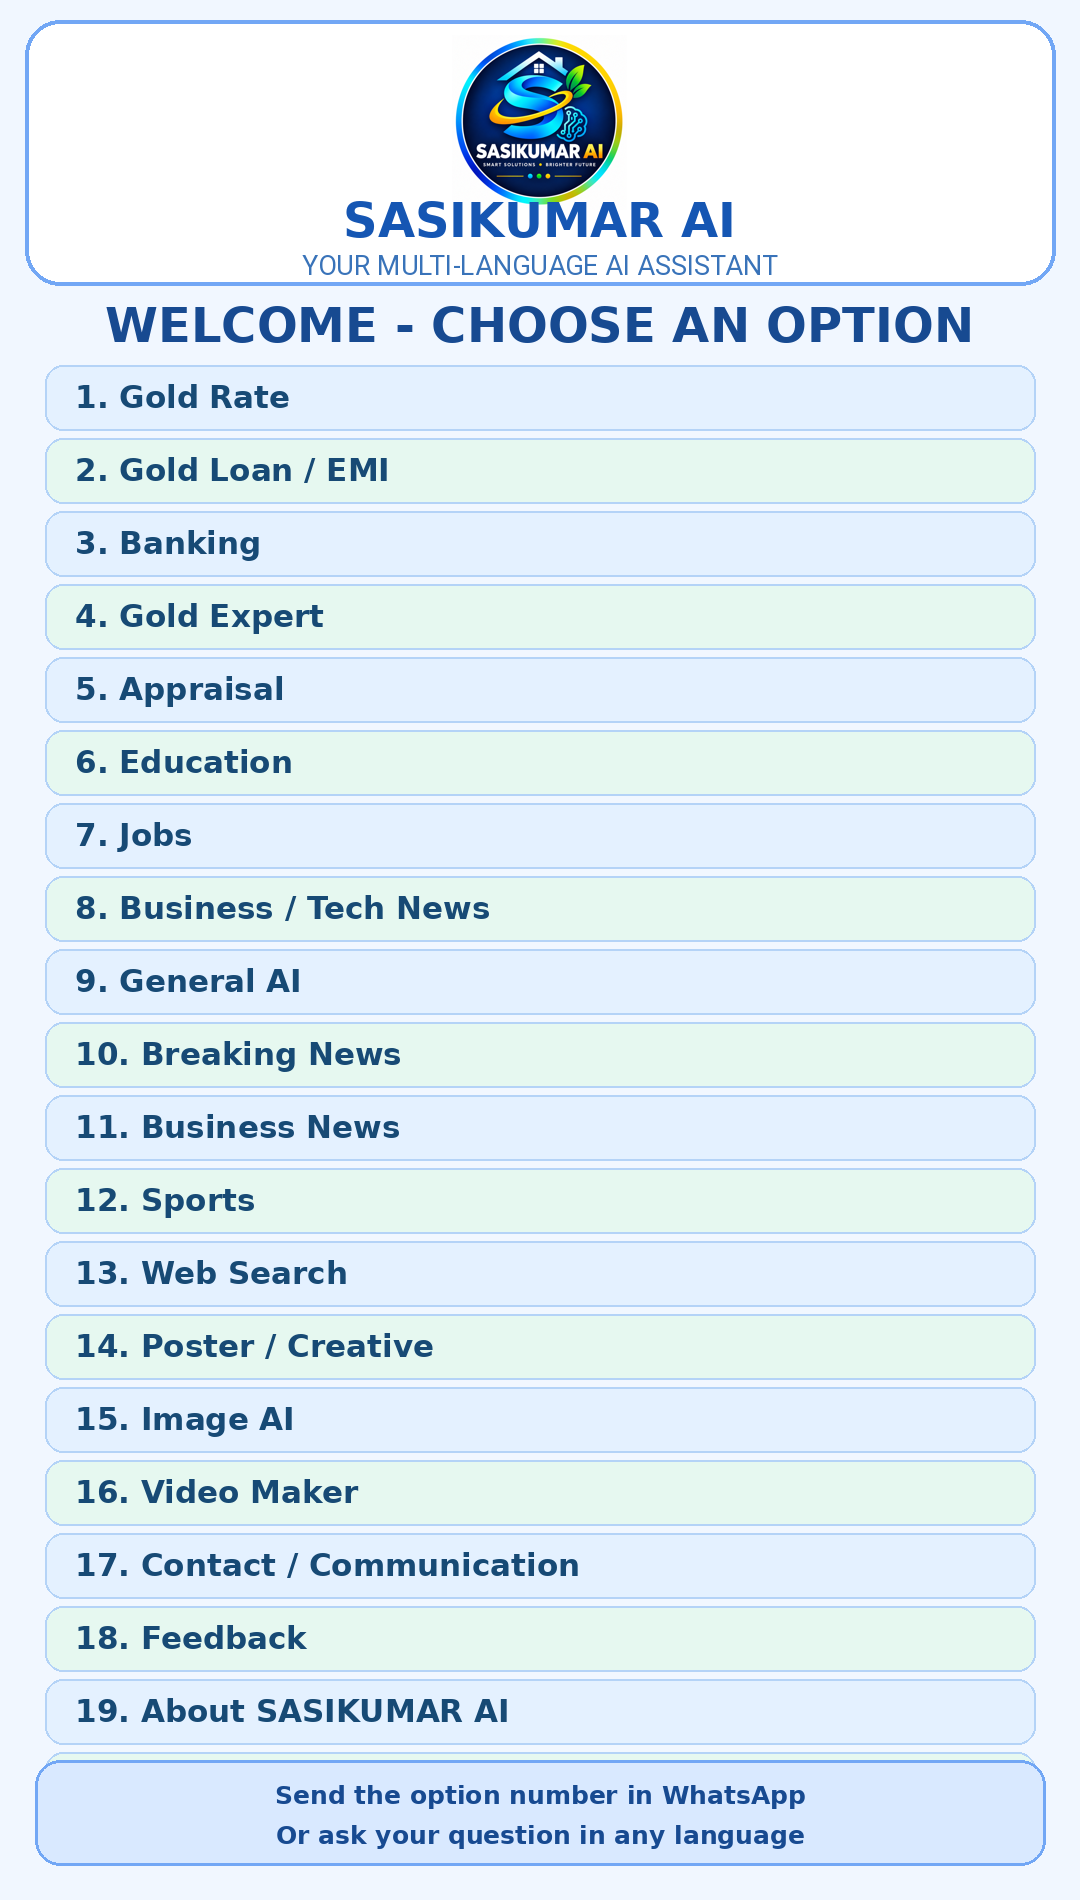
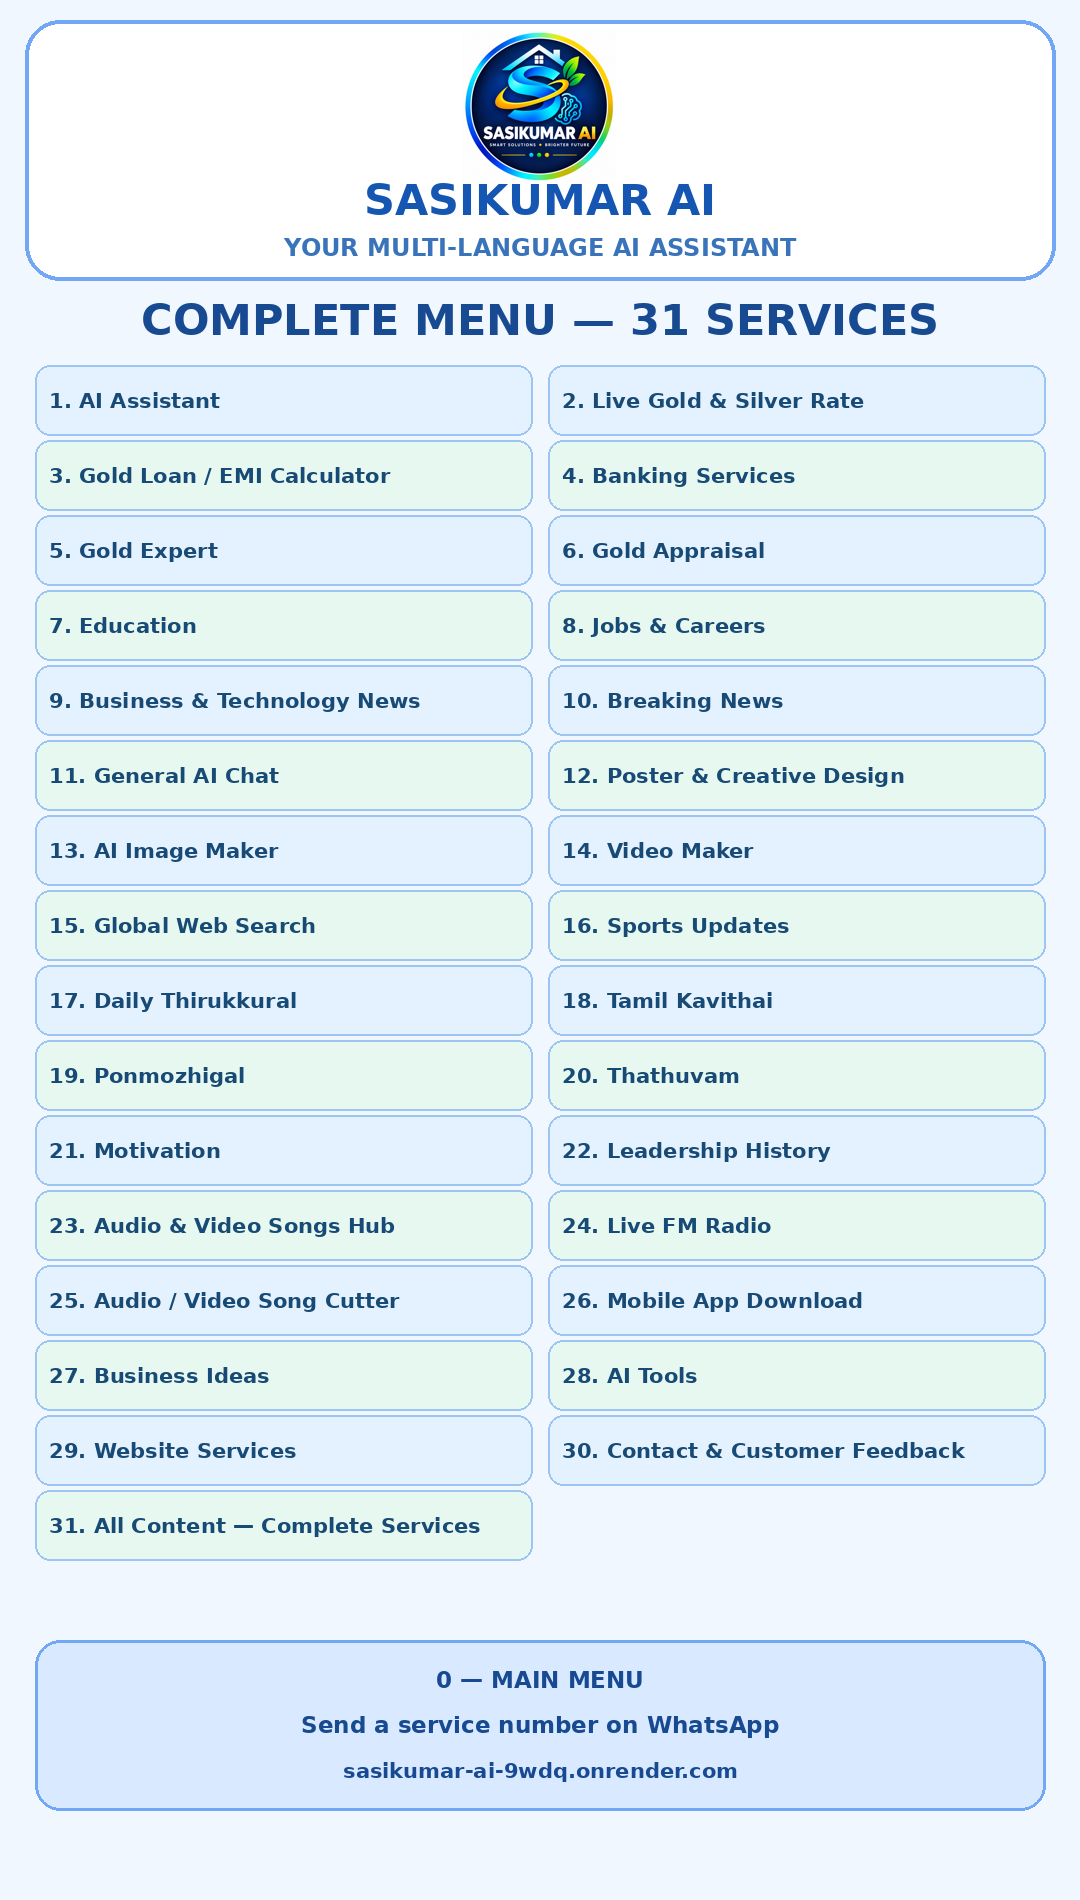
Update WhatsApp menu image to 31 services

Changed region(s): [[0.0306, 0.0, 0.9778, 0.9937]]

diff --git a/create_whatsapp_menu.py b/create_whatsapp_menu.py
@@ -1,0 +1,133 @@
+from PIL import Image, ImageDraw, ImageFont
+import os
+
+W, H = 1080, 1900
+img = Image.new("RGB", (W, H), "#F1F7FF")
+draw = ImageDraw.Draw(img)
+
+def font(size, bold=False):
+    paths = [
+        "/system/fonts/Roboto-Bold.ttf" if bold else "/system/fonts/Roboto-Regular.ttf",
+        "/data/data/com.termux/files/usr/share/fonts/TTF/DejaVuSans-Bold.ttf" if bold else "/data/data/com.termux/files/usr/share/fonts/TTF/DejaVuSans.ttf",
+        "/usr/share/fonts/truetype/dejavu/DejaVuSans-Bold.ttf" if bold else "/usr/share/fonts/truetype/dejavu/DejaVuSans.ttf"
+    ]
+    for p in paths:
+        if os.path.exists(p):
+            try:
+                return ImageFont.truetype(p, size)
+            except Exception:
+                pass
+    return ImageFont.load_default()
+
+title_font = font(43, True)
+subtitle_font = font(24, True)
+item_font = font(21, True)
+footer_font = font(23, True)
+
+# Header
+draw.rounded_rectangle(
+    (25, 20, W-25, 280),
+    radius=35, fill="#FFFFFF", outline="#72A7F5", width=4
+)
+
+logo_path = "public/assets/sasikumar-ai-logo.png"
+if not os.path.exists(logo_path):
+    raise SystemExit("ERROR: SASIKUMAR AI logo not found")
+
+logo = Image.open(logo_path).convert("RGBA")
+logo.thumbnail((155, 155))
+img.paste(logo, ((W-logo.width)//2, 30), logo)
+
+draw.text((W//2, 200), "SASIKUMAR AI", anchor="mm",
+          font=title_font, fill="#1556B3")
+draw.text((W//2, 247), "YOUR MULTI-LANGUAGE AI ASSISTANT",
+          anchor="mm", font=subtitle_font, fill="#3973B9")
+draw.text((W//2, 320), "COMPLETE MENU — 31 SERVICES",
+          anchor="mm", font=title_font, fill="#174A91")
+
+items = [
+    "1. AI Assistant",
+    "2. Live Gold & Silver Rate",
+    "3. Gold Loan / EMI Calculator",
+    "4. Banking Services",
+    "5. Gold Expert",
+    "6. Gold Appraisal",
+    "7. Education",
+    "8. Jobs & Careers",
+    "9. Business & Technology News",
+    "10. Breaking News",
+    "11. General AI Chat",
+    "12. Poster & Creative Design",
+    "13. AI Image Maker",
+    "14. Video Maker",
+    "15. Global Web Search",
+    "16. Sports Updates",
+    "17. Daily Thirukkural",
+    "18. Tamil Kavithai",
+    "19. Ponmozhigal",
+    "20. Thathuvam",
+    "21. Motivation",
+    "22. Leadership History",
+    "23. Audio & Video Songs Hub",
+    "24. Live FM Radio",
+    "25. Audio / Video Song Cutter",
+    "26. Mobile App Download",
+    "27. Business Ideas",
+    "28. AI Tools",
+    "29. Website Services",
+    "30. Contact & Customer Feedback",
+    "31. All Content — Complete Services"
+]
+
+# Two-column layout
+start_y = 365
+row_h = 70
+gap = 5
+left_x, right_x = 35, 548
+box_w = 497
+colors = ["#E4F1FF", "#E6F8F0"]
+
+for i, item in enumerate(items):
+    row = i // 2
+    col = i % 2
+    x = left_x if col == 0 else right_x
+    y = start_y + row * (row_h + gap)
+
+    draw.rounded_rectangle(
+        (x, y, x+box_w, y+row_h),
+        radius=15,
+        fill=colors[row % 2],
+        outline="#9CC5F2",
+        width=2
+    )
+
+    draw.text(
+        (x+14, y+row_h//2),
+        item,
+        anchor="lm",
+        font=item_font,
+        fill="#174A75"
+    )
+
+# Footer
+draw.rounded_rectangle(
+    (35, 1640, W-35, 1810),
+    radius=25,
+    fill="#D9E9FF",
+    outline="#72A7F5",
+    width=3
+)
+draw.text((W//2, 1680), "0 — MAIN MENU",
+          anchor="mm", font=footer_font, fill="#174A91")
+draw.text((W//2, 1725), "Send a service number on WhatsApp",
+          anchor="mm", font=footer_font, fill="#174A91")
+draw.text((W//2, 1770), "sasikumar-ai-9wdq.onrender.com",
+          anchor="mm", font=font(21, True), fill="#174A91")
+
+out = "public/assets/whatsapp-menu.png"
+img.save(out, optimize=True)
+
+print("SUCCESS:", out)
+print("Image size:", img.size)
+print("Options:", len(items))
+print("Backup created successfully")
